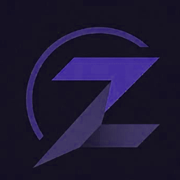
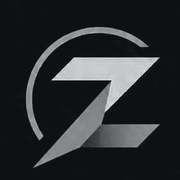
marca: recolore os ícones binários de roxo para grafite
Sobrou da troca de paleta: o tema inteiro virou grafite mas o ícone do
PWA, o favicon e o apple-icon continuavam violeta — o único roxo ainda
visível fora do tema legacy.

Não é redesenho, é recoloração por projeção: cada pixel é projetado no
eixo fundo→violeta da arte antiga e o fator cai no eixo #0F1012→#F0F1F3.
Luminância pura achataria o degradê do raio; a projeção preserva. Todos
os tamanhos saem de zafe-icon.png por Lanczos.

Os -legacy roxos continuam no public/ como rollback — e o ROLLBACK.md
agora aponta os caminhos certos: favicon.ico e apple-icon.png moram em
app/, não em public/, e as instruções antigas copiavam para o lugar errado.

Changed region(s): [[0.1667, 0.3056, 0.8889, 0.9444], [0.1389, 0.1389, 0.8333, 0.7778]]

diff --git a/ROLLBACK.md b/ROLLBACK.md
@@ -91,26 +91,32 @@ cp public/icon-legacy.svg app/icon.svg
 
 ### 2. Ícones binários (PNG / ICO)
 
-São imagens rasterizadas — código não recolore PNG. O original de cada um está
-salvo ao lado, com sufixo `-legacy`. Para voltar, copie por cima:
+São imagens rasterizadas: não seguem o interruptor `data-theme` e precisam de
+ação manual. O original roxo de cada uma está salvo ao lado, com sufixo
+`-legacy`. Para voltar, copie por cima — repare que dois deles moram em `app/`,
+não em `public/`:
 
 ```bash
-cd public
-cp favicon-legacy.ico       favicon.ico
-cp favicon-32-legacy.png    favicon-32.png
-cp icon-192-legacy.png      icon-192.png
-cp icon-512-legacy.png      icon-512.png
-cp apple-icon-legacy.png    apple-icon.png
+cp public/favicon-legacy.ico    app/favicon.ico
+cp public/apple-icon-legacy.png app/apple-icon.png
+cp public/favicon-32-legacy.png public/favicon-32.png
+cp public/icon-192-legacy.png   public/icon-192.png
+cp public/icon-512-legacy.png   public/icon-512.png
+cp public/zafe-icon-legacy.png  public/zafe-icon.png
+cp public/zafe-logo-full-legacy.png public/zafe-logo-full.png
 ```
 
-> Atenção: esses arquivos **ainda são os roxos**. Não dá para recriá-los por
-> código; precisam de arquivo novo desenhado. Quando os novos chegarem, as
-> cópias `-legacy` continuam sendo o caminho de volta.
+Os grafite não foram redesenhados: são o mesmo traço recolorido por projeção de
+cor. Cada pixel é projetado no eixo `#151123 → #5E4BA7` (fundo → violeta mais
+claro da arte antiga) e o fator resultante reposicionado no eixo
+`#0F1012 → #F0F1F3`. Converter por luminância teria achatado o degradê do raio;
+a projeção preserva a profundidade. `public/zafe-icon.png` é o mestre — os
+outros tamanhos saem dele por Lanczos, e o `.ico` leva 16px e 32px.
 
-> `zafe-logo-full.png` e `zafe-icon.png` **saíram de uso**. O logo virou SVG
-> inline em `components/brand/Logo.tsx`, pintado pelos tokens, e por isso é o
-> único asset de marca que acompanha o interruptor. Os PNG seguem no `public/`
-> só como referência.
+> `zafe-logo-full.png` e `zafe-icon.png` **saíram de uso** no app. O logo virou
+> SVG inline em `components/brand/Logo.tsx`, pintado pelos tokens, e por isso é
+> o único asset de marca que acompanha o interruptor. O `zafe-icon.png` segue
+> valendo como mestre dos ícones binários acima.
 
 ### 3. Manifest PWA — `public/manifest.json`
 
